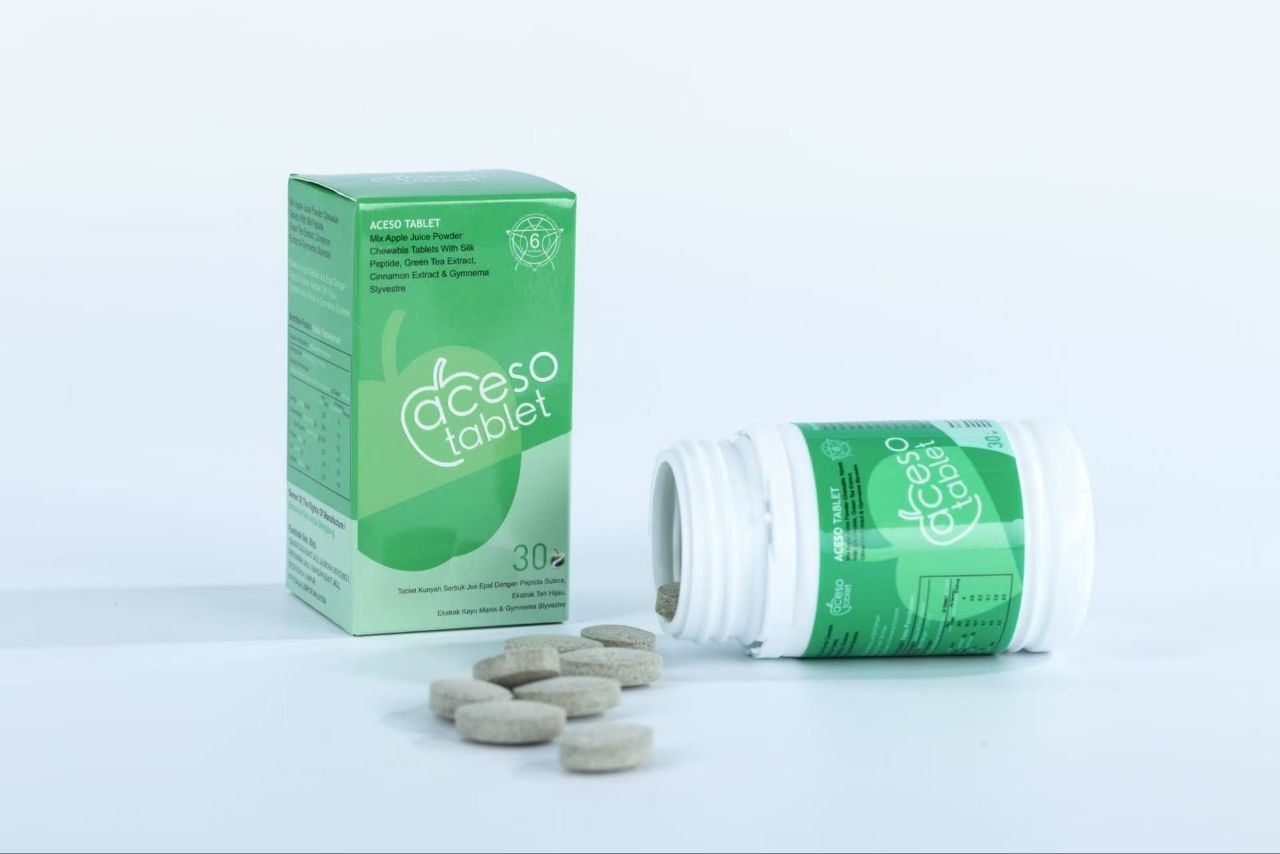
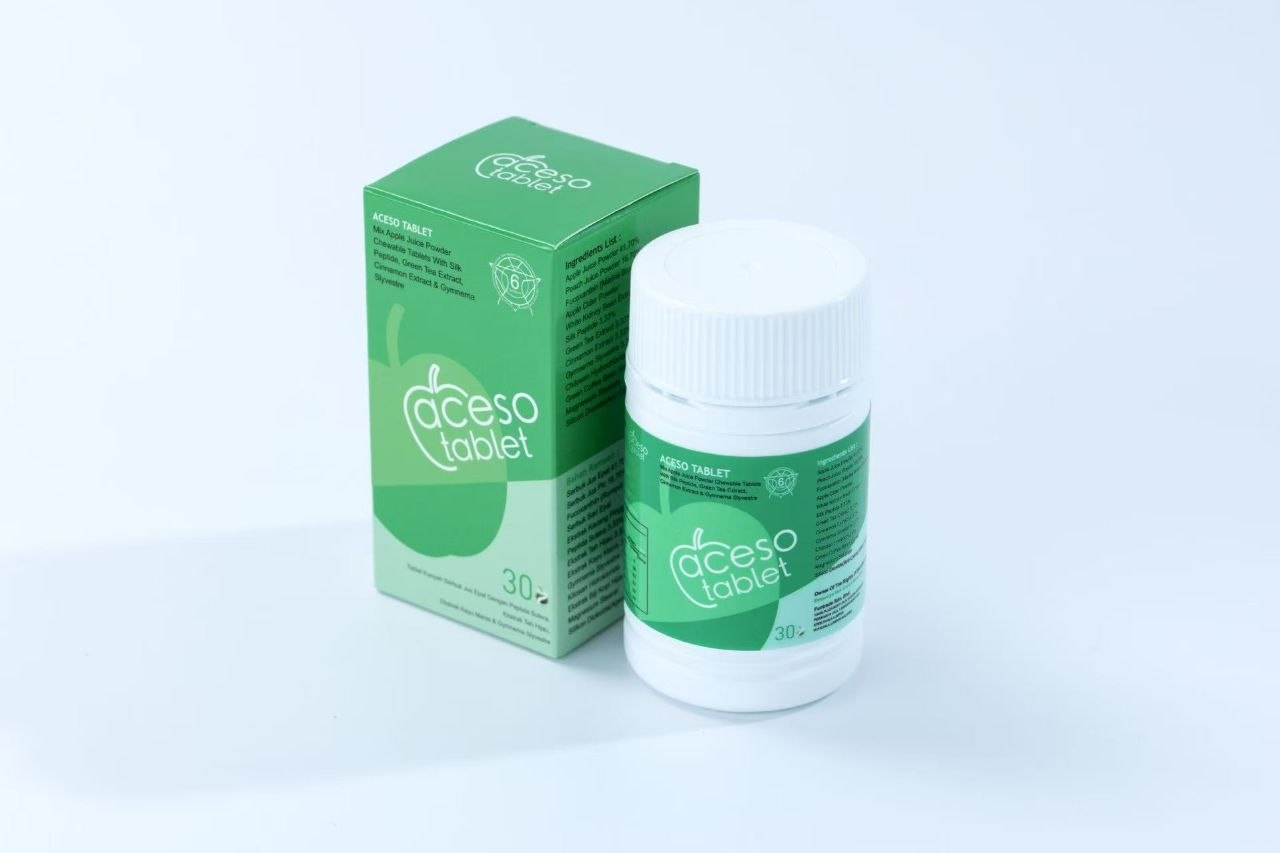
Ninazu v1.0.5 — 修正 Aceso 详情区图片（aceso-box-bottle.jpg），清缓存 v4

diff --git a/index.html b/index.html
@@ -4,10 +4,10 @@
   <meta charset="UTF-8">
   <meta name="viewport" content="width=device-width, initial-scale=1.0">
   <title>Ninazu — Natural Health Supplements</title>
-  <link rel="stylesheet" href="css/main.css?v=3">
-  <link rel="stylesheet" href="css/ambrosia.css?v=3">
-  <link rel="stylesheet" href="css/aceso.css?v=3">
-  <link rel="stylesheet" href="css/back-to-top.css?v=3">
+  <link rel="stylesheet" href="css/main.css?v=4">
+  <link rel="stylesheet" href="css/ambrosia.css?v=4">
+  <link rel="stylesheet" href="css/aceso.css?v=4">
+  <link rel="stylesheet" href="css/back-to-top.css?v=4">
   <link rel="preconnect" href="https://fonts.googleapis.com">
   <link href="https://fonts.googleapis.com/css2?family=Cormorant+Garamond:ital,wght@0,300;0,400;1,300;1,400&family=Montserrat:wght@300;400;500;600&display=swap" rel="stylesheet">
   <style>
@@ -71,14 +71,14 @@
     </div>
     <div class="hero-visual">
       <div class="hero-product-card fade-in delay-1">
-        <img src="images/ambrosia/ambrosia-hero.jpg?v=3" alt="Ambrosia">
+        <img src="images/ambrosia/ambrosia-hero.jpg?v=4" alt="Ambrosia">
         <div class="hero-product-caption">
           <span class="prod-name">Ambrosia</span>
           <span class="prod-tag" data-i18n="ambrosia_tag">体重管理</span>
         </div>
       </div>
       <div class="hero-product-card fade-in delay-2">
-        <img src="images/aceso/aceso-box-bottle.jpg?v=3" alt="Aceso">
+        <img src="images/aceso/aceso-box-bottle.jpg?v=4" alt="Aceso">
         <div class="hero-product-caption">
           <span class="prod-name">Aceso</span>
           <span class="prod-tag" data-i18n="aceso_tag">血糖控制</span>
@@ -118,7 +118,7 @@
   <div class="container">
     <div class="product-layout">
       <div class="product-visual fade-up">
-        <img src="images/ambrosia/ambrosia-product.jpg?v=3" alt="Ambrosia" class="product-main-img">
+        <img src="images/ambrosia/ambrosia-product.jpg?v=4" alt="Ambrosia" class="product-main-img">
         <div class="product-badge-overlay ambrosia-overlay" data-i18n="ambrosia_tag">体重管理</div>
       </div>
       <div class="product-content fade-up">
@@ -203,7 +203,7 @@
   <div class="container">
     <div class="product-layout aceso-layout">
       <div class="product-visual fade-up aceso-visual-top">
-        <img src="images/aceso/aceso-box-bottle.jpg?v=3" alt="Aceso" class="product-main-img">
+        <img src="images/aceso/aceso-box-bottle.jpg?v=4" alt="Aceso" class="product-main-img">
         <div class="product-badge-overlay aceso-overlay" data-i18n="aceso_tag">血糖控制</div>
       </div>
       <div class="product-content fade-up">
@@ -291,7 +291,7 @@
       <h2 data-i18n="compare_title">产品对比</h2>
     </div>
     <div class="compare-hero-img fade-up">
-      <img src="images/both-hero.jpg?v=3" alt="Ambrosia & Aceso">
+      <img src="images/both-hero.jpg?v=4" alt="Ambrosia & Aceso">
     </div>
     <div class="compare-table-wrap fade-up">
       <table class="compare-table">
@@ -424,9 +424,9 @@
   </svg>
 </button>
 
-<script src="js/i18n.js?v=3"></script>
-<script src="js/lang-switch.js?v=3"></script>
-<script src="js/main.js?v=3"></script>
-<script src="js/back-to-top.js?v=3"></script>
+<script src="js/i18n.js?v=4"></script>
+<script src="js/lang-switch.js?v=4"></script>
+<script src="js/main.js?v=4"></script>
+<script src="js/back-to-top.js?v=4"></script>
 </body>
 </html>
